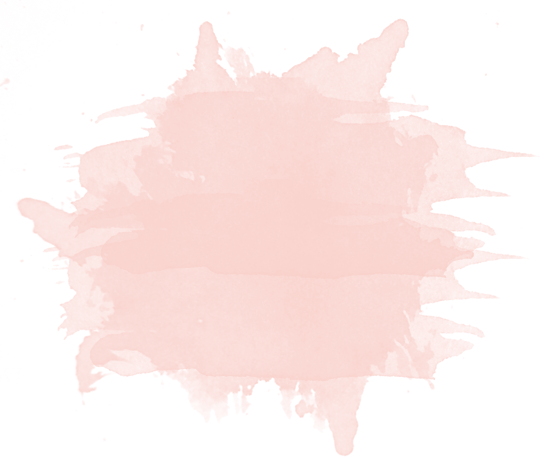
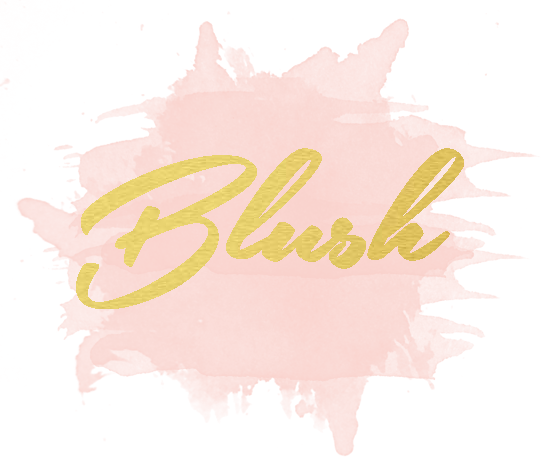
change to static image

Changed region(s): [[0.1183, 0.3063, 0.8577, 0.674]]

diff --git a/index.html b/index.html
@@ -31,10 +31,7 @@
         <!--<h1 class="cursive">Blush</h1>-->
         <div class="logo">
             <img src="img/stroke.png" class="cursive" style="height: 100%; width:100%;">
-            <h1 class="cursive gold-text" style="    position: absolute;
-    left: 0%;
-    top: 22%;
-    width: 100%;">Blush</h1>    
+            <!--<h1 class="cursive gold-text">Blush</h1>    -->
         </div>
         
          
